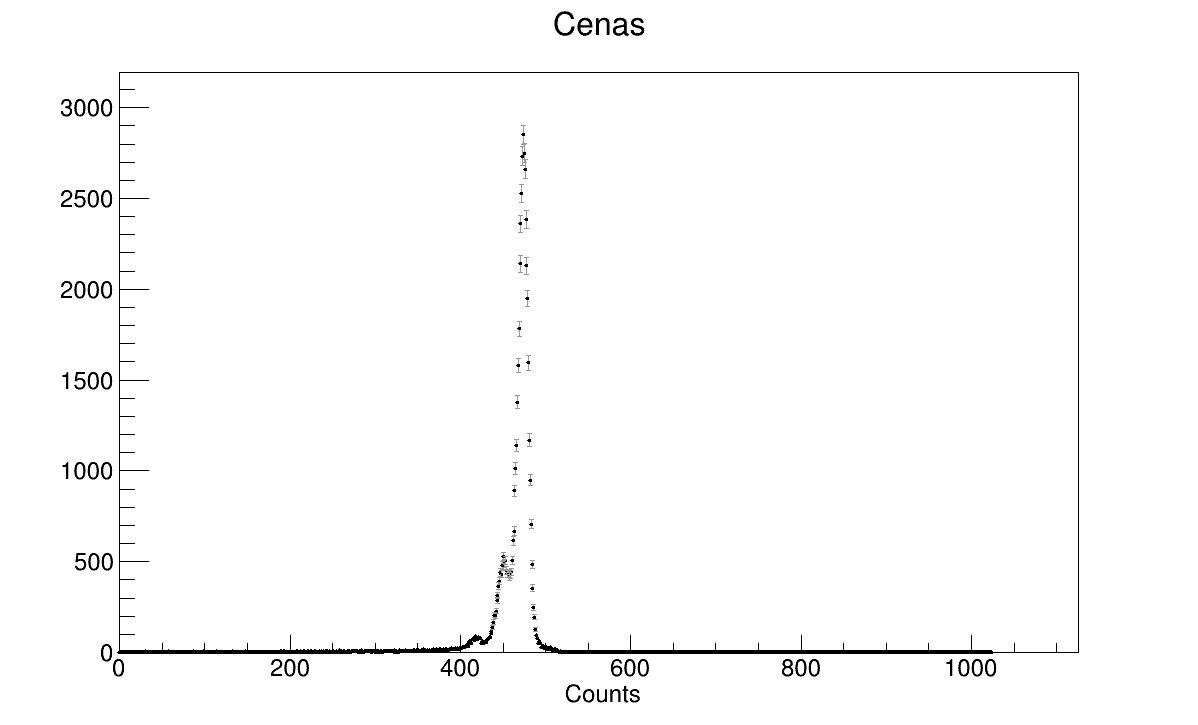
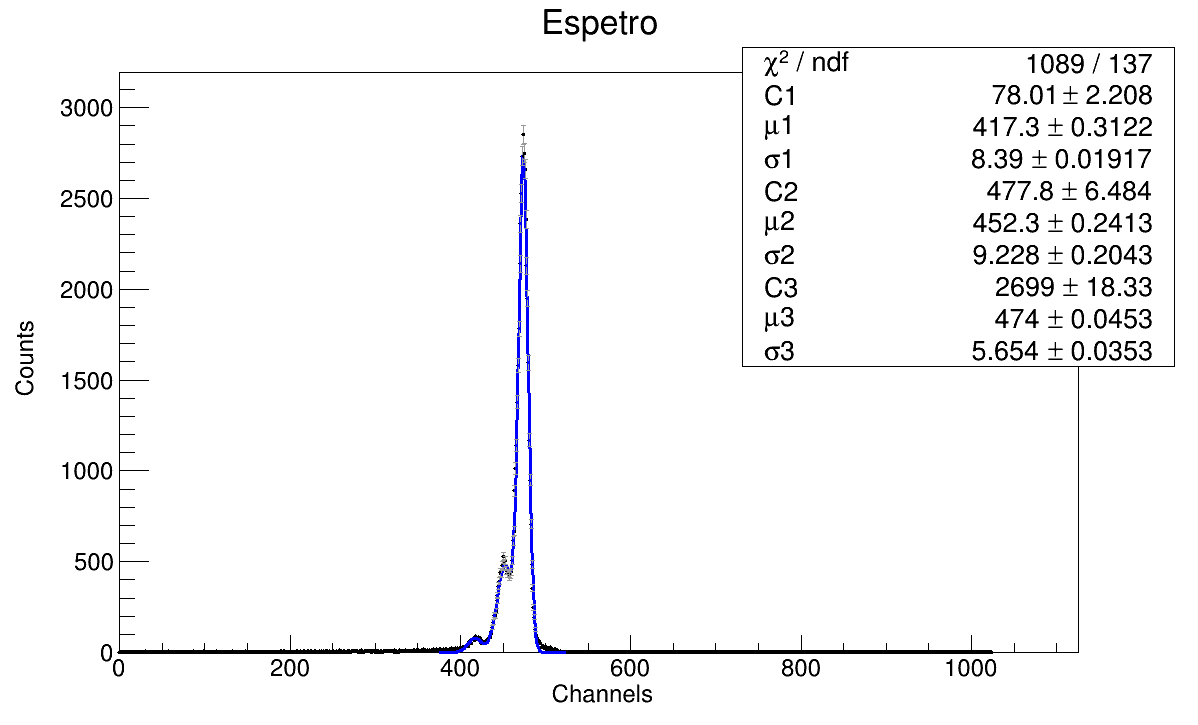
tripla gaus

diff --git a/Alfa/main/analise.cpp b/Alfa/main/analise.cpp
@@ -68,6 +68,7 @@ int main(){
     c1.WaitPrimitive();
     gSystem->ProcessEvents();
 
+    gStyle->SetOptFit(kTRUE);
     vector<pair<double, double>> cal3;
     ReadFile("Data_Files/3Cal.dat",  cal3);
 
@@ -80,12 +81,23 @@ int main(){
     G_Cal3.SetMarkerStyle(20);
     G_Cal3.SetMarkerSize(0.5);
     G_Cal3.SetLineColor(kGray+1);
-    G_Cal3.SetTitle("Cenas; Counts");
+    G_Cal3.SetTitle("Espetro; Channels; Counts");
     G_Cal3.GetXaxis()->CenterTitle();
     G_Cal3.GetYaxis()->CenterTitle();
 
+    TF1 *F_Cal3 = new TF1("F_Cal3", "[0]*exp(-0.5*((x-[1])/[2])*((x-[1])/[2])) + [3]*exp(-0.5*((x-[4])/[5])*((x-[4])/[5])) + [6]*exp(-0.5*((x-[7])/[8])*((x-[7])/[8]))", 1370, 1440);
+    //F_Cal3->SetParLimits(1,410,430);
+    F_Cal3->SetParLimits(1,417,417.9);
+    F_Cal3->SetParLimits(2,0,8.39);
+    F_Cal3->SetParameters(80, 418, 8, 500, 450, 9, 3000, 475, 6);
+    F_Cal3->SetParNames("C1","#mu1", "#sigma1","C2","#mu2", "#sigma2","C3","#mu3", "#sigma3");
+    F_Cal3->SetLineColor(kBlue);
+    F_Cal3->SetLineWidth(3);
+    G_Cal3.Fit("F_Cal3","","",375, 525);
+
     c1.Clear();
     G_Cal3.Draw("AP");
+    F_Cal3->Draw("same C");
     c1.Update();
     c1.SaveAs("Graphs/Cal3.png");
     c1.WaitPrimitive();
